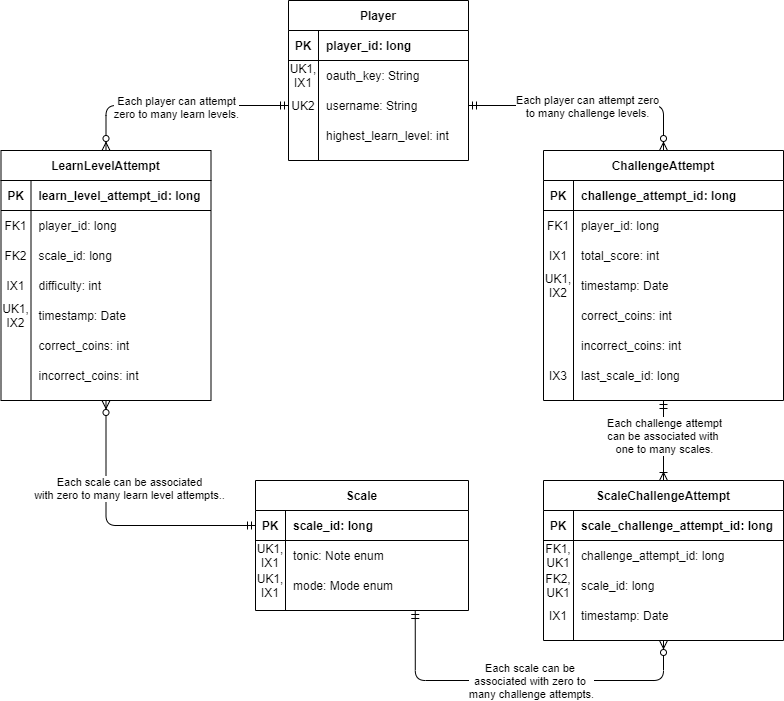
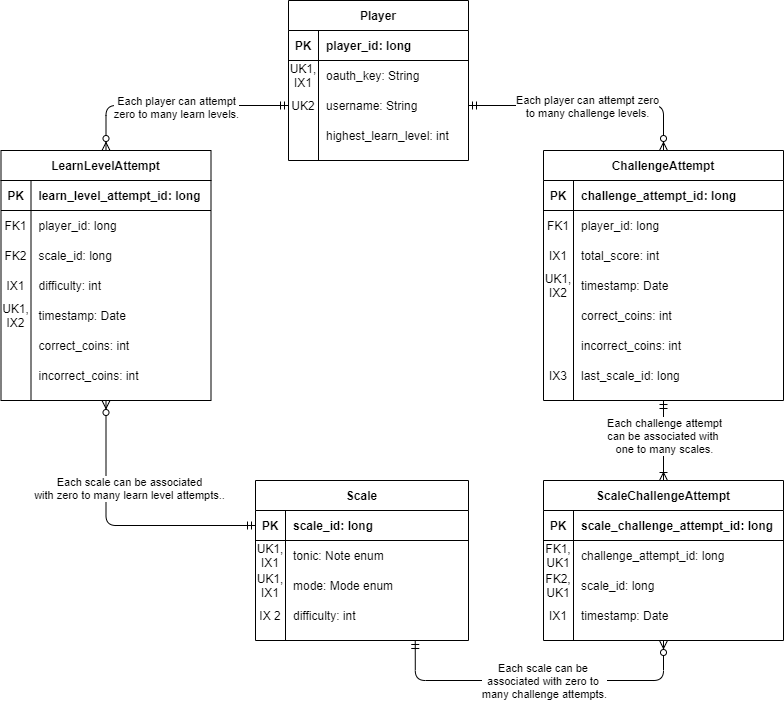
Working on dialogs and recyclers.

Changed region(s): [[0.5816, 0.9287, 0.7653, 1.0], [0.3367, 0.8688, 0.4592, 0.8987], [0.5204, 0.8688, 0.551, 0.9287]]

diff --git a/app/src/main/java/edu/cnm/deepdive/scalescroller/controller/ScaleSelectFragment.java b/app/src/main/java/edu/cnm/deepdive/scalescroller/controller/ScaleSelectFragment.java
@@ -1,22 +1,19 @@
 package edu.cnm.deepdive.scalescroller.controller;
 
 import android.os.Bundle;
-import android.util.Log;
 import android.view.LayoutInflater;
 import android.view.View;
 import android.view.ViewGroup;
+import android.widget.Toast;
 import androidx.annotation.NonNull;
 import androidx.annotation.Nullable;
 import androidx.fragment.app.Fragment;
-import androidx.lifecycle.LifecycleOwner;
-import androidx.lifecycle.LiveData;
-import androidx.lifecycle.Observer;
 import androidx.lifecycle.ViewModelProvider;
 import androidx.navigation.NavController;
 import androidx.navigation.fragment.NavHostFragment;
+import edu.cnm.deepdive.scalescroller.R;
 import edu.cnm.deepdive.scalescroller.adapter.ScaleRecyclerAdapter;
 import edu.cnm.deepdive.scalescroller.databinding.FragmentScaleSelectBinding;
-import edu.cnm.deepdive.scalescroller.model.entity.Player;
 import edu.cnm.deepdive.scalescroller.service.GoogleSignInService;
 import edu.cnm.deepdive.scalescroller.service.PlayerRepository;
 import edu.cnm.deepdive.scalescroller.viewmodel.MainViewModel;
@@ -51,11 +48,15 @@ public class ScaleSelectFragment extends Fragment {
     });
     signInService = GoogleSignInService.getInstance();
     playerRepository = new PlayerRepository(getActivity());
-    // TODO Set listener for the elements in the recycler view
     return binding.getRoot();
   }
 
-  // TODO javadoc
+  /**
+   * Creates a recycler view containing the scales in the database, with scales the user cannot
+   * select displayed as grayed-out.
+    * @param view A {@code View} object.
+   * @param savedInstanceState A {@code Bundle}
+   */
   @Override
   public void onViewCreated(@NonNull View view, @Nullable Bundle savedInstanceState) {
     super.onViewCreated(view, savedInstanceState);
@@ -65,9 +66,15 @@ public class ScaleSelectFragment extends Fragment {
             player -> highestDifficulty = player.getHighestLearnLevel());
     viewModel.getScales().observe(getViewLifecycleOwner(), (scales) -> {
       //noinspection ConstantConditions
-      ScaleRecyclerAdapter adapter = new ScaleRecyclerAdapter(getContext(), scales, (scale) ->
+      ScaleRecyclerAdapter adapter = new ScaleRecyclerAdapter(getContext(), scales, (scale) -> {
+        if (scale.getDifficulty() > highestDifficulty) {
+          Toast.makeText(getContext(), R.string.scale_select_error, Toast.LENGTH_LONG)
+              .show();
+        } else {
           navController.navigate(
-              ScaleSelectFragmentDirections.openLearnModeGame(scale.getTonic(), scale.getMode())),
+              ScaleSelectFragmentDirections.openLearnModeGame(scale.getTonic(), scale.getMode()));
+        }
+      },
           highestDifficulty);
       binding.scaleRecycler.setAdapter(adapter);
     });

diff --git a/app/src/main/java/edu/cnm/deepdive/scalescroller/adapter/HighScoreRecyclerAdapter.java b/app/src/main/java/edu/cnm/deepdive/scalescroller/adapter/HighScoreRecyclerAdapter.java
@@ -1,0 +1,67 @@
+package edu.cnm.deepdive.scalescroller.adapter;
+
+import android.content.Context;
+import android.view.LayoutInflater;
+import android.view.ViewGroup;
+import androidx.annotation.NonNull;
+import androidx.recyclerview.widget.RecyclerView;
+import edu.cnm.deepdive.scalescroller.adapter.HighScoreRecyclerAdapter.Holder;
+import edu.cnm.deepdive.scalescroller.databinding.ItemScoreBinding;
+import edu.cnm.deepdive.scalescroller.model.entity.ChallengeAttempt;
+import edu.cnm.deepdive.scalescroller.model.entity.Player;
+import java.util.List;
+
+/**
+ * Designed to only return high scores for the current user.
+ */
+//TODO javadoc
+public class HighScoreRecyclerAdapter extends RecyclerView.Adapter<Holder>{
+
+  private final Context context;
+  private final List<ChallengeAttempt> highScoreAttempts;
+  private final LayoutInflater inflater;
+  private final Player player;
+
+  public HighScoreRecyclerAdapter(@NonNull Context context, List<ChallengeAttempt> highScoreAttempts,
+      Player player) {
+    this.context = context;
+    this.highScoreAttempts = highScoreAttempts;
+    inflater = LayoutInflater.from(context);
+    this.player = player;
+  }
+
+  @NonNull
+  @Override
+  public Holder onCreateViewHolder(@NonNull ViewGroup parent, int viewType) {
+    ItemScoreBinding binding = ItemScoreBinding.inflate(inflater, parent, false);
+    return new Holder(binding);
+  }
+
+  @Override
+  public void onBindViewHolder(@NonNull Holder holder, int position) {
+    holder.bind(position);
+  }
+
+  @Override
+  public int getItemCount() {
+    return highScoreAttempts.size();
+  }
+
+  class Holder extends RecyclerView.ViewHolder {
+
+    private final ItemScoreBinding binding;
+
+    private Holder(@NonNull ItemScoreBinding binding) {
+      super(binding.getRoot());
+      this.binding = binding;
+    }
+
+    private void bind(int position) {
+      ChallengeAttempt challengeAttempt = highScoreAttempts.get(position);
+      binding.scoreNumber.setText(position + 1);
+      binding.player.setText(player.getUsername());
+      binding.timestamp.setText(challengeAttempt.getTimestamp().toString());
+    }
+  }
+
+}

diff --git a/app/src/main/java/edu/cnm/deepdive/scalescroller/controller/PauseDialogFragment.java b/app/src/main/java/edu/cnm/deepdive/scalescroller/controller/PauseDialogFragment.java
@@ -1,29 +1,54 @@
 package edu.cnm.deepdive.scalescroller.controller;
 
 import android.app.AlertDialog;
+import android.app.AlertDialog.Builder;
 import android.app.Dialog;
 import android.os.Bundle;
+import android.view.LayoutInflater;
+import android.view.View;
+import android.view.ViewGroup;
 import androidx.annotation.NonNull;
 import androidx.annotation.Nullable;
 import androidx.fragment.app.DialogFragment;
 import androidx.navigation.NavController;
 import androidx.navigation.fragment.NavHostFragment;
+import edu.cnm.deepdive.scalescroller.R;
+import edu.cnm.deepdive.scalescroller.databinding.FragmentPauseDialogBinding;
 
+//TODO why do none of the dialogs work????
+//TODO javadoc
 public class PauseDialogFragment extends DialogFragment {
 
   private AlertDialog dialog;
   private NavController navController;
+  private FragmentPauseDialogBinding binding;
+
+  @Override
+  public void onCreate(@Nullable Bundle savedInstanceState) {
+    super.onCreate(savedInstanceState);
+    binding = FragmentPauseDialogBinding.inflate(LayoutInflater.from(getContext()));
+  }
 
   @NonNull
   @Override
   public Dialog onCreateDialog(@Nullable Bundle savedInstanceState) {
     navController = NavHostFragment.findNavController(this);
-    dialog = new AlertDialog.Builder(getActivity())
-        .setMessage("Level paused")
-        .setPositiveButton("Resume", (dialog, which) -> {})
-        .setNegativeButton("Return to title", ((dialog, which)
+    dialog = new Builder(getContext())
+        .setView(binding.getRoot())
+        .setMessage(R.string.level_paused)
+        .setPositiveButton(R.string.resume, (dialog, which) -> {})
+        .setNegativeButton(R.string.return_to_title, ((dialog, which)
             -> navController.navigate(PauseDialogFragmentDirections.openTitle())))
         .create();
+    dialog.show();
     return dialog;
+  }
+
+  //this override is needed to make the dialog get created
+  @Nullable
+  @Override
+  public View onCreateView(@NonNull LayoutInflater inflater, ViewGroup container,
+      @Nullable Bundle savedInstanceState) {
+    return binding.getRoot();
   }
 }

diff --git a/app/src/main/java/edu/cnm/deepdive/scalescroller/adapter/ScaleRecyclerAdapter.java b/app/src/main/java/edu/cnm/deepdive/scalescroller/adapter/ScaleRecyclerAdapter.java
@@ -12,6 +12,7 @@ import edu.cnm.deepdive.scalescroller.databinding.ItemScaleBinding;
 import edu.cnm.deepdive.scalescroller.model.entity.Scale;
 import java.util.List;
 
+//TODO javadoc
 /**
  * Allows for the scales in the database to be listed in a RecyclerView.
  */
@@ -26,7 +27,8 @@ public class ScaleRecyclerAdapter extends RecyclerView.Adapter<Holder> {
   private final int highestDifficulty;
 
   /**
-   * The constructor initializes the context, the list of scales and
+   * The constructor initializes the context, the list of scales, an onClickListener, and the
+   * highest difficulty scale the player has access to.
    *
    * @param context
    */
@@ -65,13 +67,14 @@ public class ScaleRecyclerAdapter extends RecyclerView.Adapter<Holder> {
       this.binding = binding;
     }
 
+    //TODO why isn't the color working consistently?
     private void bind(int position) {
       Scale scale = scales.get(position);
       binding.scaleName.setText(String.format(SCALE_FORMAT,
           scale.getTonic().toString().toUpperCase(),
           scale.getMode().toString().toLowerCase()));
-      if (position <= highestDifficulty) {
-        binding.scaleName.setTextColor(ContextCompat.getColor(context, R.color.textColor));
+      if (position > highestDifficulty) {
+        binding.scaleName.setTextColor(ContextCompat.getColor(context, R.color.inactiveColor));
       }
       itemView.setOnClickListener((v) -> listener.onClick(scale));
     }

diff --git a/app/src/main/java/edu/cnm/deepdive/scalescroller/controller/GameFragment.java b/app/src/main/java/edu/cnm/deepdive/scalescroller/controller/GameFragment.java
@@ -11,6 +11,7 @@ import androidx.fragment.app.FragmentActivity;
 import androidx.lifecycle.LifecycleOwner;
 import androidx.lifecycle.ViewModelProvider;
 import androidx.navigation.NavController;
+import androidx.navigation.Navigation;
 import androidx.navigation.fragment.NavHostFragment;
 import edu.cnm.deepdive.scalescroller.R;
 import edu.cnm.deepdive.scalescroller.databinding.FragmentGameBinding;
@@ -57,7 +58,7 @@ public class GameFragment extends Fragment {
     binding = FragmentGameBinding.inflate(inflater);
     navController = NavHostFragment.findNavController(this);
     binding.pauseButton.setOnClickListener((v) -> {
-      navController.navigate(GameFragmentDirections.openPauseDialog());
+      Navigation.findNavController(getView()).navigate(GameFragmentDirections.openPauseDialog());
     });
     //noinspection ConstantConditions
     gameMode = args.getGameMode();

diff --git a/app/src/main/java/edu/cnm/deepdive/scalescroller/model/dao/ScaleDao.java b/app/src/main/java/edu/cnm/deepdive/scalescroller/model/dao/ScaleDao.java
@@ -119,7 +119,11 @@ public interface ScaleDao {
   @Query("SELECT * FROM Scale")
   LiveData<List<Scale>> selectAll();
 
-  // TODO add javadoc
+  /**
+   * Queries the database for all scales, ordering based on difficulty.
+   *
+   * @return {@code LiveData} of a {@code List} of scales.
+   */
   @Query("SELECT * FROM Scale ORDER BY difficulty ASC")
   LiveData<List<Scale>> selectAllOrderByDifficulty();
 

diff --git a/app/src/main/java/edu/cnm/deepdive/scalescroller/model/entity/Scale.java b/app/src/main/java/edu/cnm/deepdive/scalescroller/model/entity/Scale.java
@@ -30,7 +30,6 @@ public class Scale {
   @ColumnInfo(typeAffinity = ColumnInfo.INTEGER)
   private Mode mode;
 
-  // TODO add to ERD
   @ColumnInfo(index = true)
   private int difficulty;
 
@@ -101,4 +100,5 @@ public class Scale {
   public void setDifficulty(int difficulty) {
     this.difficulty = difficulty;
   }
+
 }

diff --git a/app/src/main/java/edu/cnm/deepdive/scalescroller/model/entity/Mode.java b/app/src/main/java/edu/cnm/deepdive/scalescroller/model/entity/Mode.java
@@ -140,7 +140,7 @@ public enum Mode {
   public String toString() {
     return super.toString()
         .replaceAll("_", " ")
-        .replace("SHARP", "#") //TODO use unicode values for sharp and flat
-        .replace("FLAT", "b");
+        .replace("SHARP", "\u266f")
+        .replace("FLAT", "\u266d");
   }
 }

diff --git a/app/src/main/java/edu/cnm/deepdive/scalescroller/model/entity/Note.java b/app/src/main/java/edu/cnm/deepdive/scalescroller/model/entity/Note.java
@@ -118,7 +118,7 @@ public enum Note {
   public String toString() {
     return super.toString()
         .replaceAll("_", "")
-        .replace("SHARP", "#") //TODO use unicode values for sharp/flat
-        .replace("FLAT", "b");
+        .replace("SHARP", "\u266f")
+        .replace("FLAT", "\u266d");
   }
 }

diff --git a/app/src/main/java/edu/cnm/deepdive/scalescroller/controller/EndLevelDialogFragment.java b/app/src/main/java/edu/cnm/deepdive/scalescroller/controller/EndLevelDialogFragment.java
@@ -11,6 +11,7 @@ import edu.cnm.deepdive.scalescroller.R;
 import edu.cnm.deepdive.scalescroller.controller.GameFragment.GameMode;
 import edu.cnm.deepdive.scalescroller.viewmodel.MainViewModel;
 
+//TODO javadoc
 public class EndLevelDialogFragment extends DialogFragment {
 
   private AlertDialog dialog;
